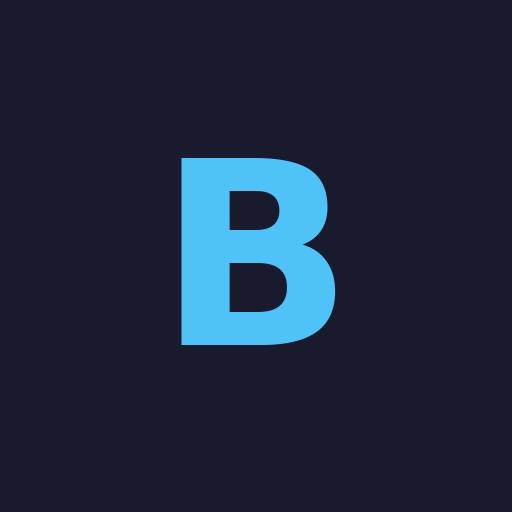
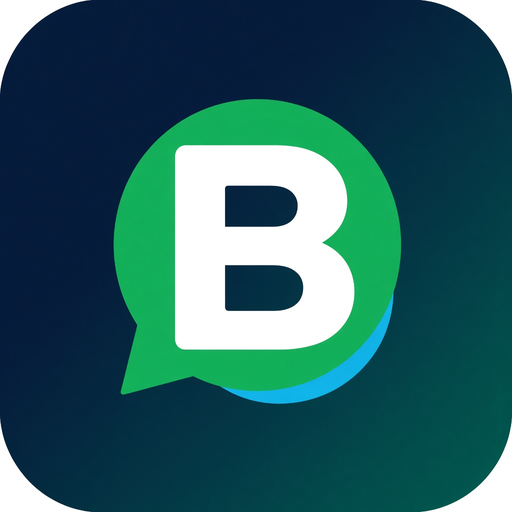
На телефоне у PWA яркая иконка-лого Bein.

diff --git a/beintaskbot-main/docs/index.html b/beintaskbot-main/docs/index.html
@@ -9,7 +9,8 @@
     <meta name="pwa-build" content="207">
     <meta name="theme-color" content="#1a252f">
     <link rel="manifest" href="manifest.json">
-    <link rel="apple-touch-icon" href="icon-192.png">
+    <link rel="apple-touch-icon" sizes="180x180" href="apple-touch-icon.png">
+    <link rel="icon" type="image/png" sizes="192x192" href="icon-192.png">
     <!-- Mini App removed -->
     <script src="https://cdn.tailwindcss.com"></script>
     <style>

diff --git a/docs/index.html b/docs/index.html
@@ -9,7 +9,8 @@
     <meta name="pwa-build" content="207">
     <meta name="theme-color" content="#1a252f">
     <link rel="manifest" href="manifest.json">
-    <link rel="apple-touch-icon" href="icon-192.png">
+    <link rel="apple-touch-icon" sizes="180x180" href="apple-touch-icon.png">
+    <link rel="icon" type="image/png" sizes="192x192" href="icon-192.png">
     <!-- Mini App removed -->
     <script src="https://cdn.tailwindcss.com"></script>
     <style>

diff --git a/index.html b/index.html
@@ -9,7 +9,8 @@
     <meta name="pwa-build" content="207">
     <meta name="theme-color" content="#1a252f">
     <link rel="manifest" href="manifest.json">
-    <link rel="apple-touch-icon" href="icon-192.png">
+    <link rel="apple-touch-icon" sizes="180x180" href="apple-touch-icon.png">
+    <link rel="icon" type="image/png" sizes="192x192" href="icon-192.png">
     <!-- Mini App removed -->
     <script src="https://cdn.tailwindcss.com"></script>
     <style>

diff --git a/beintaskbot-main/docs/sw.js b/beintaskbot-main/docs/sw.js
@@ -1,4 +1,4 @@
-const CACHE_NAME = 'beintaskbot-v2026-09-22-224';
+const CACHE_NAME = 'beintaskbot-v2026-09-22-225';
 
 self.addEventListener('install', e => {
   self.skipWaiting();

diff --git a/docs/sw.js b/docs/sw.js
@@ -1,4 +1,4 @@
-const CACHE_NAME = 'beintaskbot-v2026-09-22-224';
+const CACHE_NAME = 'beintaskbot-v2026-09-22-225';
 
 self.addEventListener('install', e => {
   self.skipWaiting();

diff --git a/sw.js b/sw.js
@@ -1,4 +1,4 @@
-const CACHE_NAME = 'beintaskbot-v2026-09-22-224';
+const CACHE_NAME = 'beintaskbot-v2026-09-22-225';
 
 self.addEventListener('install', e => {
   self.skipWaiting();
